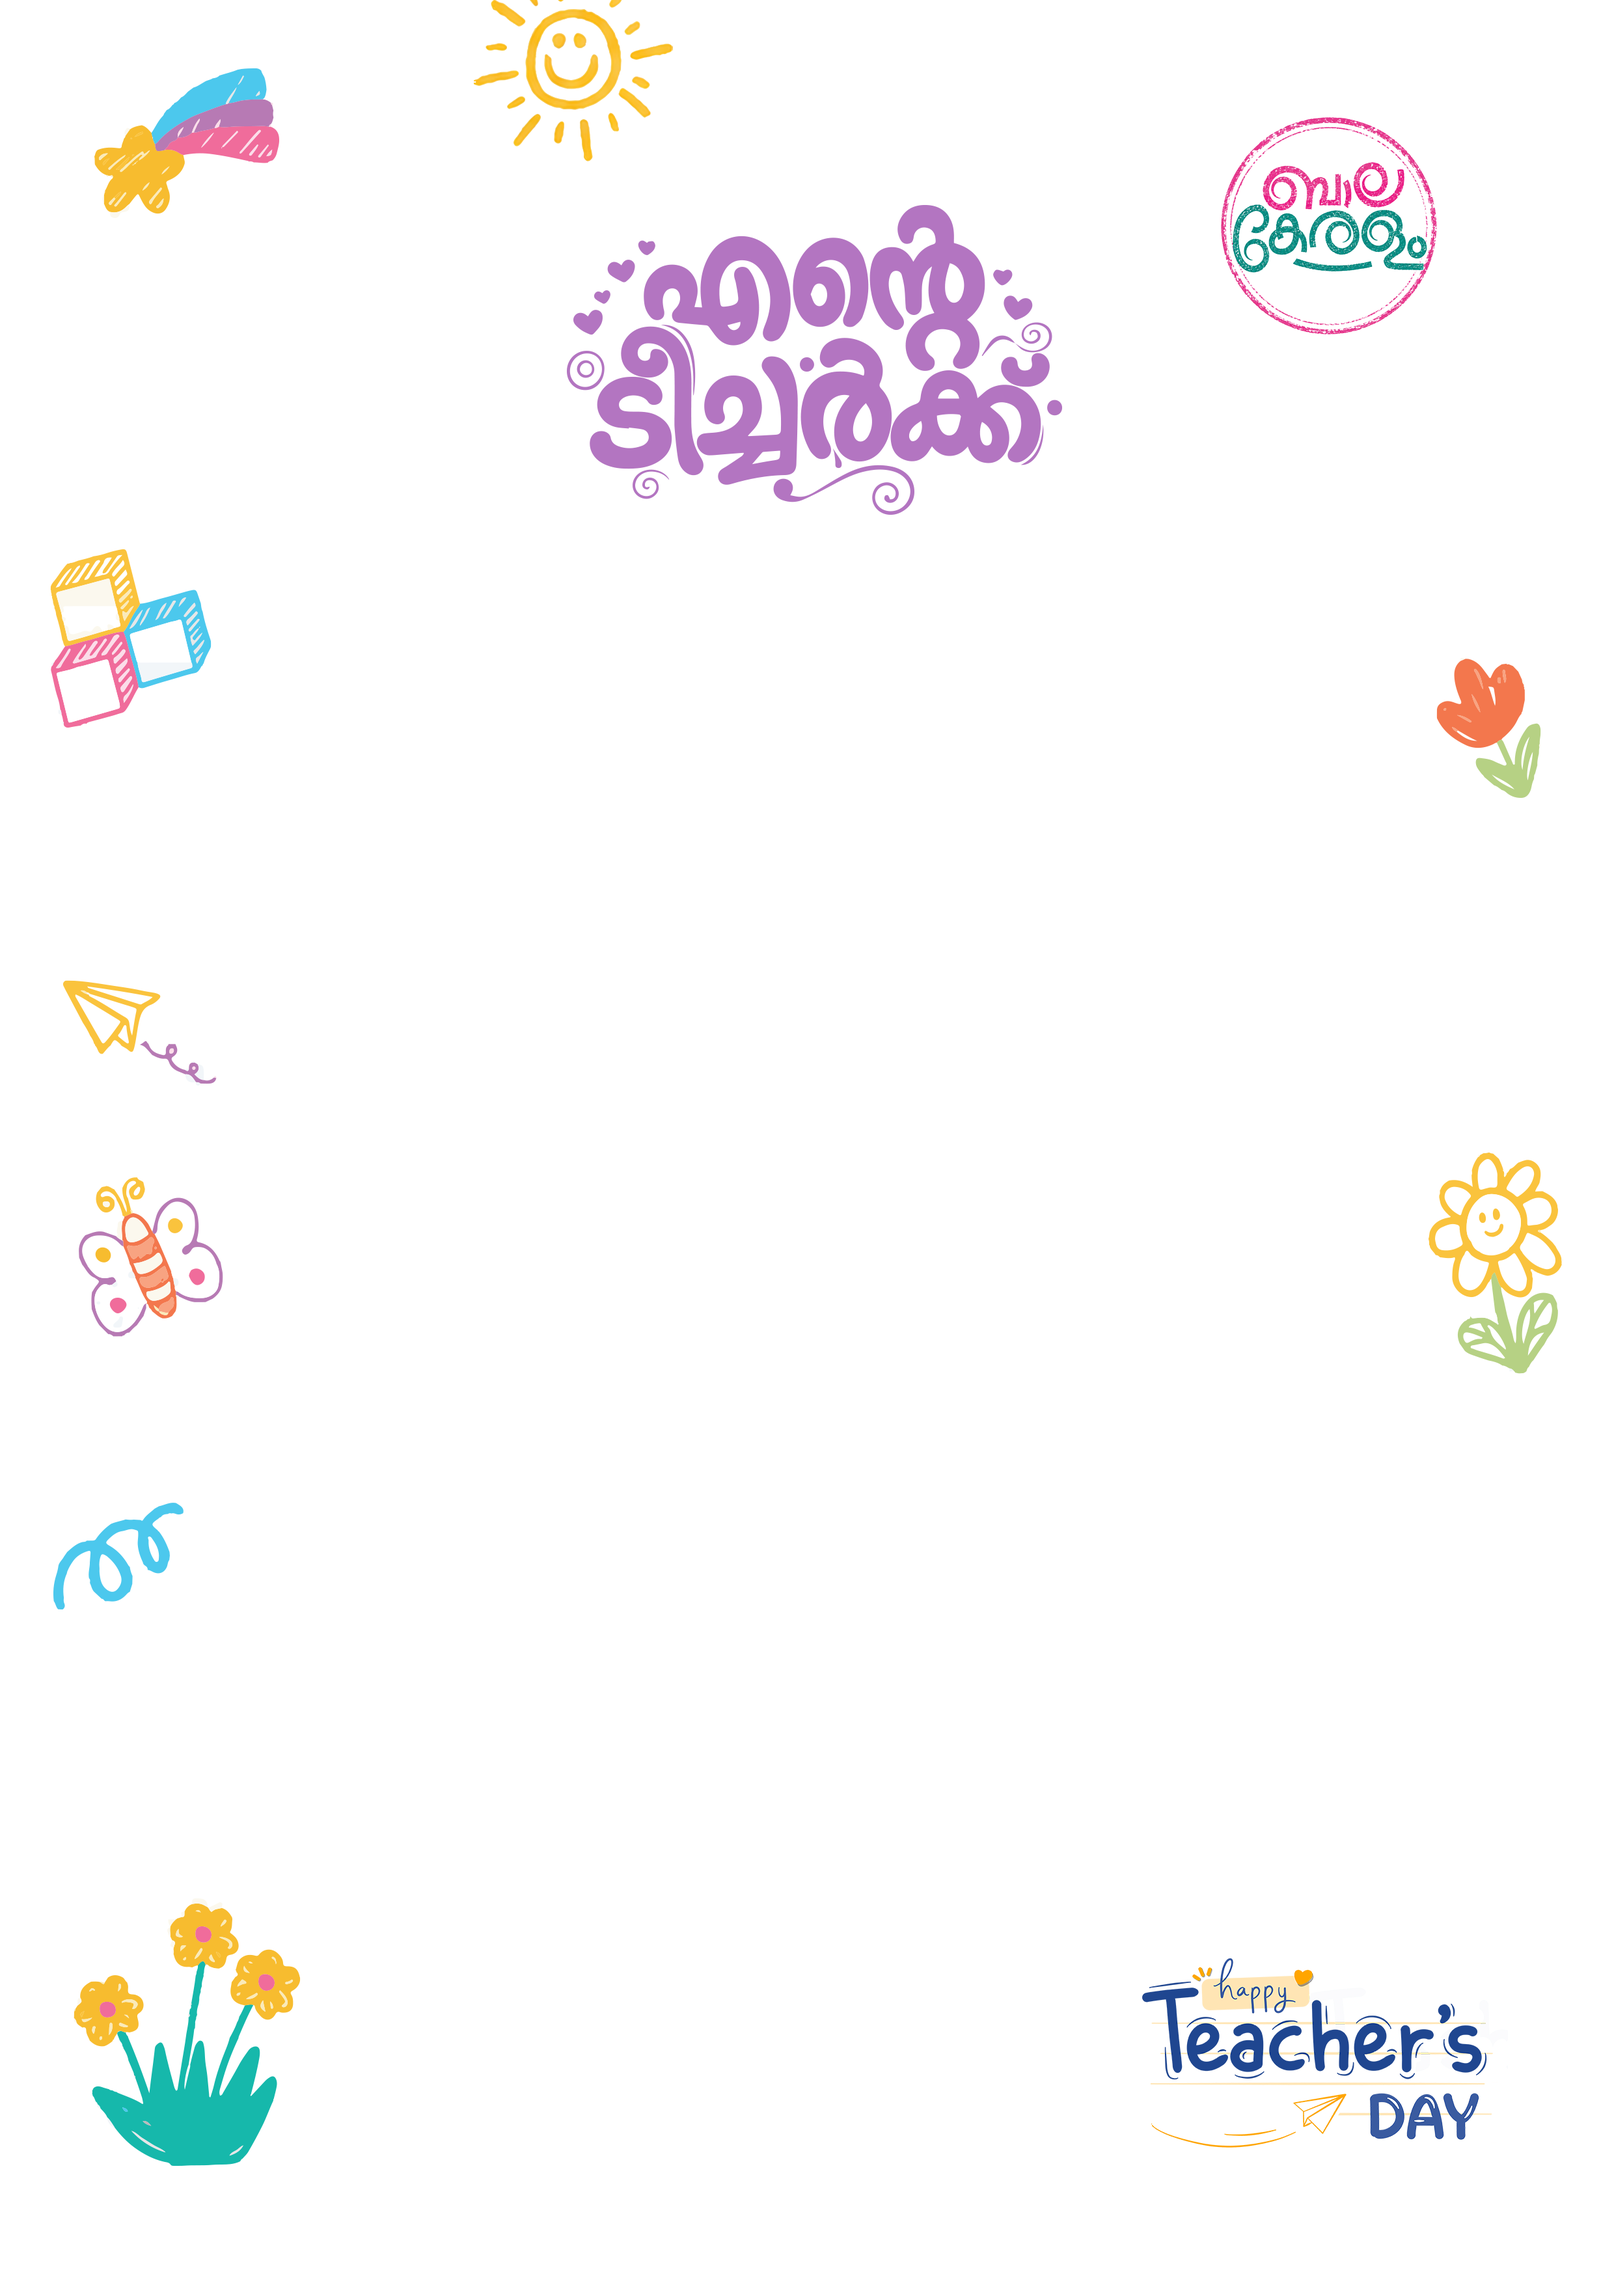
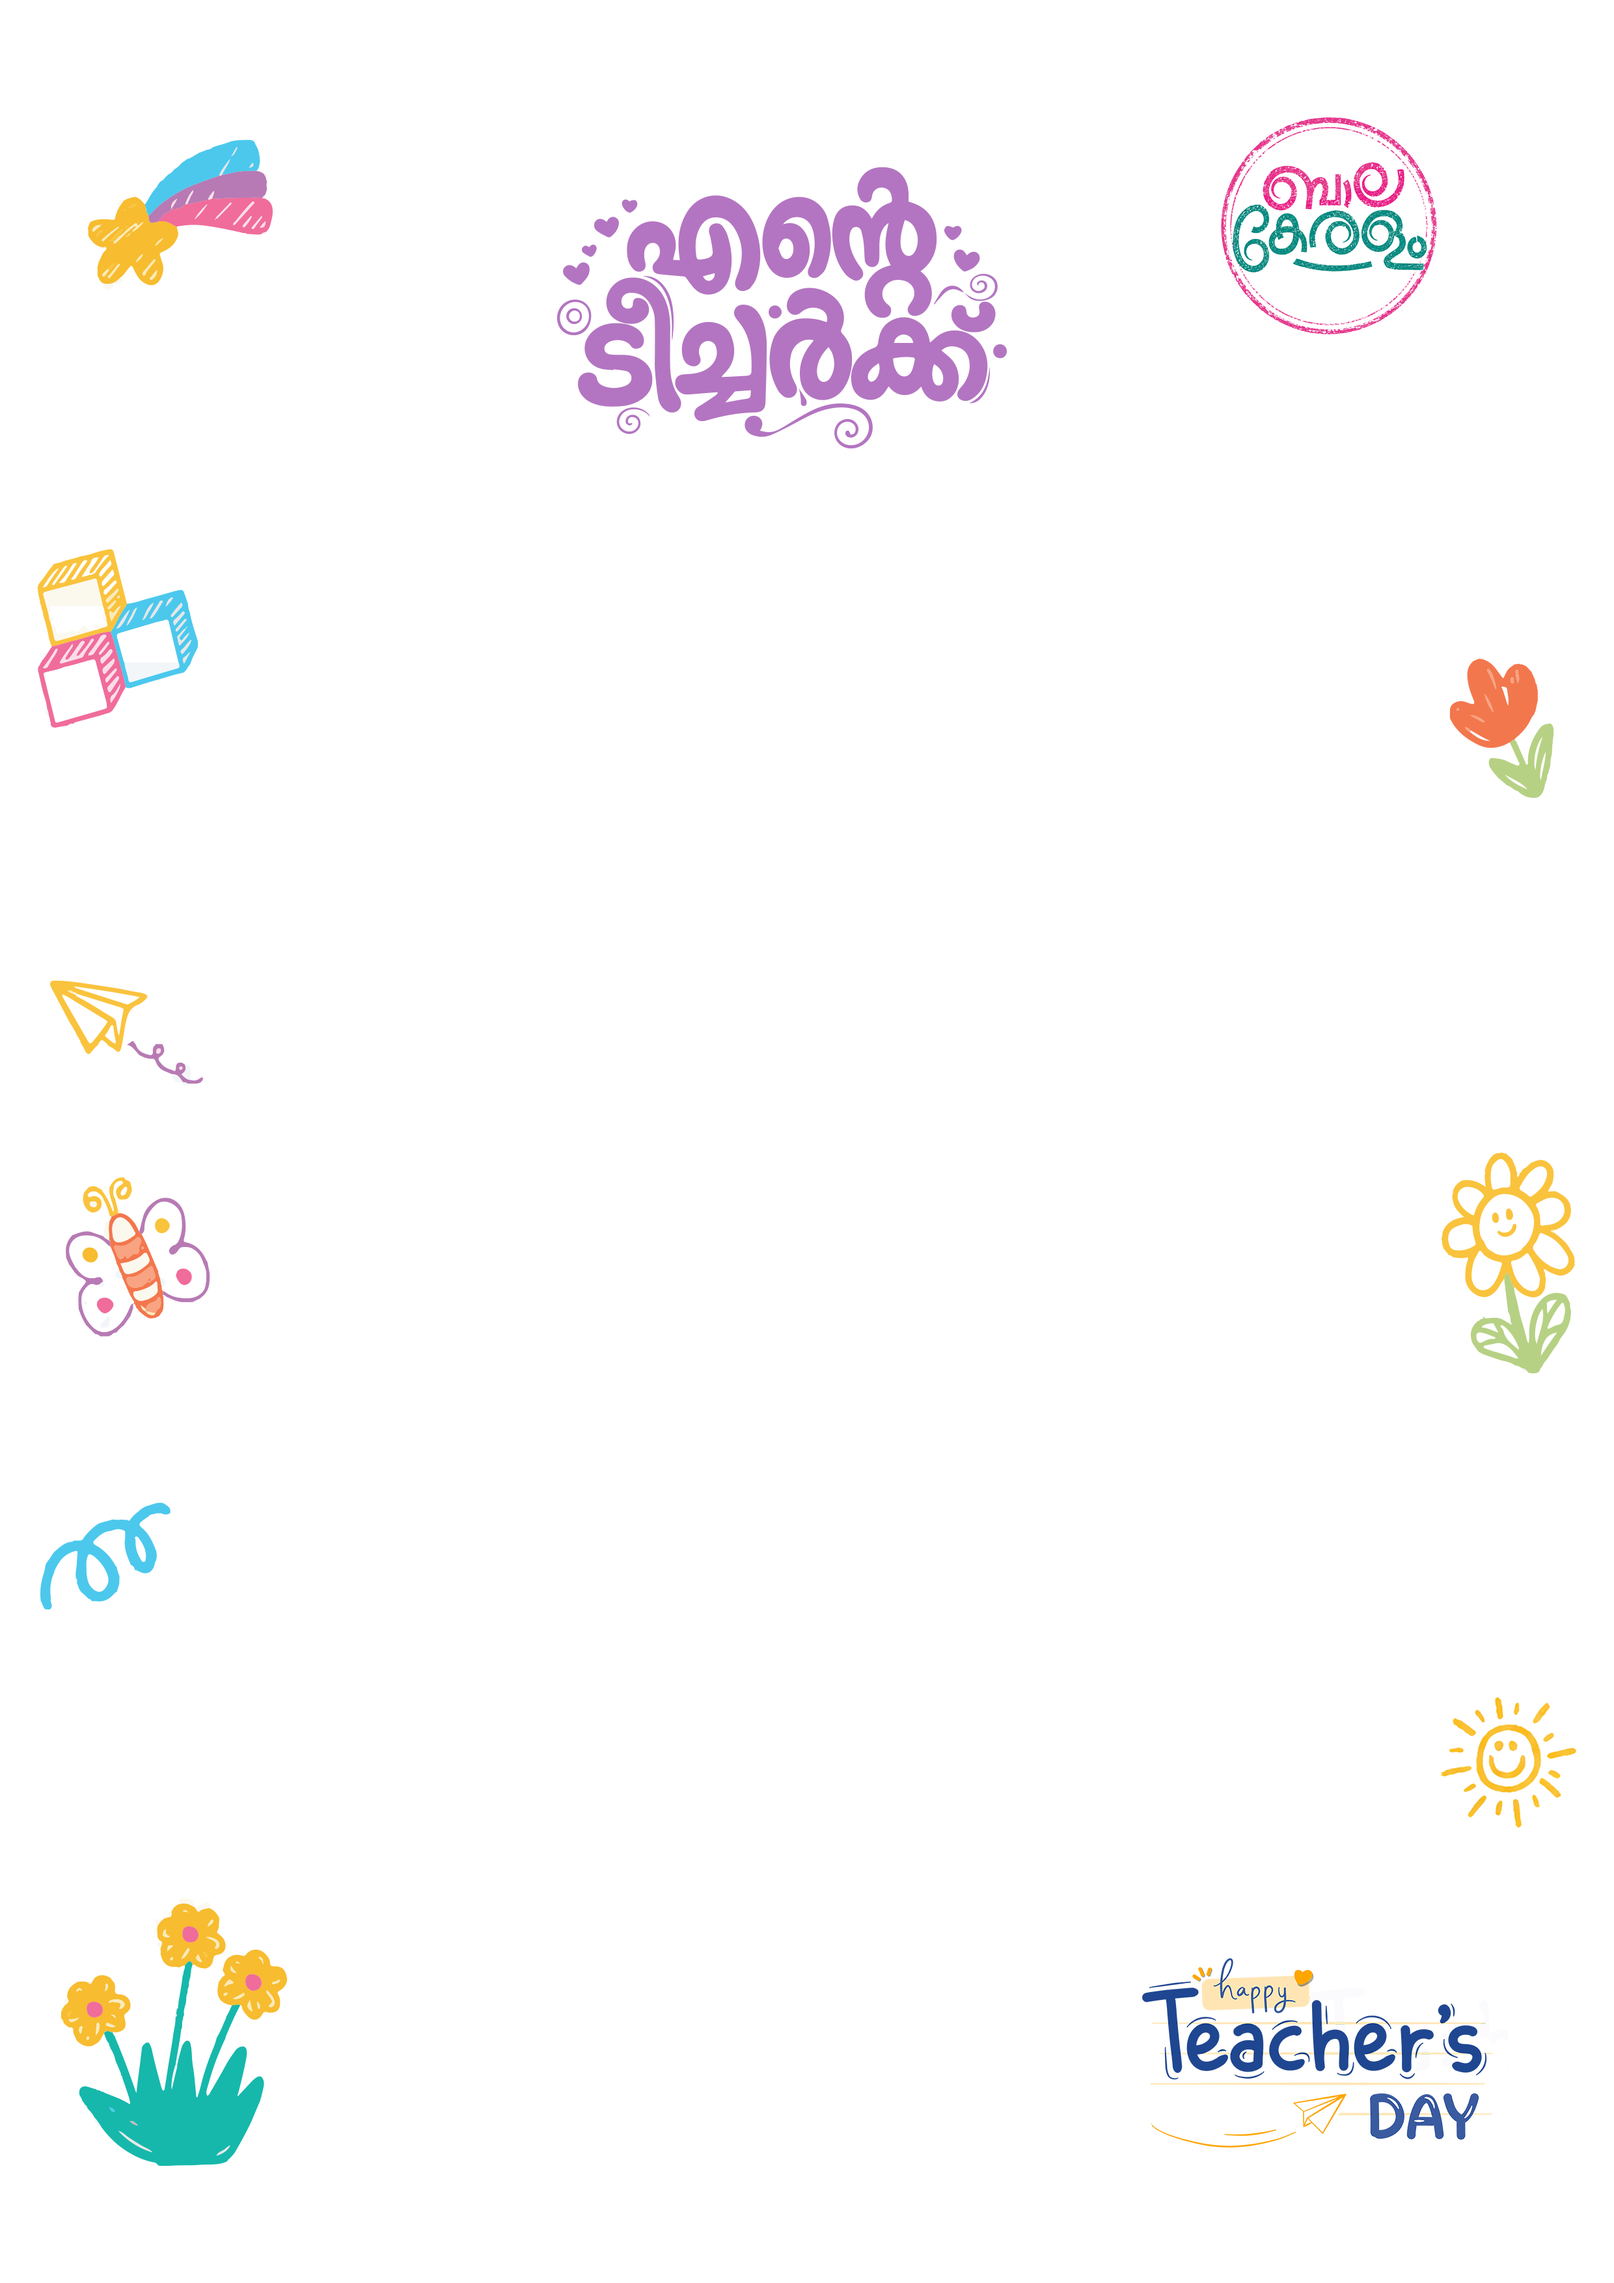
Update templates with new text and shorten to fit character limit

diff --git a/src/data/templates.js b/src/data/templates.js
@@ -1,24 +1,55 @@
 export const templates = [
   {
     id: 1,
-    title: 'The Little Things',
-    preview: 'എനിക്ക് ടീച്ചറോട് ഒരു കാര്യം പറയാനുണ്ട്...',
-    content: `ടീച്ചർക്ക്,
+    title: 'Template 1',
+    preview: 'ഞങ്ങൾക്ക് ഒരുപാട് കാര്യങ്ങൾ പഠിപ്പിക്കുന്നുണ്ട് ടീച്ചർ...',
+    content: `പ്രിയപ്പെട്ട ടീച്ചർക്ക്… ❤
 
-എനിക്ക് ടീച്ചറോട് ഒരു കാര്യം പറയാനുണ്ട്.
-ടീച്ചർ വഴക്ക് പറയുമ്പോൾ എനിക്ക് ദേഷ്യം വരും. പക്ഷേ പിറ്റേന്ന് ക്ലാസ്സിൽ വന്ന് ചിരിക്കുമ്പോൾ ആ ദേഷ്യം മാറും.
-ഞാൻ പഠിക്കാതെ വരുമ്പോൾ ടീച്ചർ വിഷമിക്കുന്നതും, നല്ല മാർക്ക് വാങ്ങുമ്പോൾ സന്തോഷിക്കുന്നതും എനിക്കറിയാം. അപ്പോൾ ഞാൻ ടീച്ചറുടെ സ്വന്തം കുട്ടിയാണെന്ന് തോന്നും.
-ടീച്ചർക്ക് തരാൻ എന്റെ കൈയിൽ പണമൊന്നുമില്ല. അതുകൊണ്ട് എന്റെ ഏറ്റവും വലിയ സ്നേഹം ഞാൻ തരുന്നു… ❤`
+ഞങ്ങൾക്ക് ഒരുപാട് കാര്യങ്ങൾ പഠിപ്പിക്കുന്നുണ്ട് ടീച്ചർ.
+പുസ്തകത്തിലെ പാഠങ്ങളും, പരീക്ഷയ്ക്കുള്ള ഉത്തരങ്ങളും…
+
+പക്ഷേ, അതിനേക്കാൾ വലിയ ചില കാര്യങ്ങൾ ടീച്ചർ ഞങ്ങളെ അറിയാതെ തന്നെ പഠിപ്പിക്കുന്നുണ്ട്.
+
+നല്ലൊരു മനുഷ്യനാകാൻ… മറ്റുള്ളവരെ സ്നേഹിക്കാൻ…
+തെറ്റ് പറ്റുമ്പോൾ അത് തിരുത്താൻ…
+വീണുപോകുമ്പോൾ വീണ്ടും എഴുന്നേൽക്കാൻ…
+
+ഞങ്ങൾ വളർന്ന് വലുതാകുമ്പോൾ പലരെയും മറന്നുപോയേക്കാം.
+പക്ഷേ, ഞങ്ങളുടെ ജീവിതത്തിൽ നല്ലൊരു മാറ്റത്തിന് കാരണമാകുന്ന ടീച്ചർമാരെ ഒരിക്കലും മറക്കാൻ കഴിയില്ല.
+
+ഞങ്ങളുടെ ജീവിതത്തിൽ ഒരു നല്ല വഴികാണിച്ചുതന്ന എല്ലാ അധ്യാപകർക്കും നന്ദി…`
   },
   {
     id: 2,
-    title: 'My Teacher, My Memory',
-    preview: 'ടീച്ചർ ക്ലാസ്സിൽ വരുമ്പോൾ എനിക്ക്...',
-    content: `പ്രിയപ്പെട്ട ടീച്ചർ,
+    title: 'Template 2',
+    preview: 'എനിക്ക് ടീച്ചറെ ഒരുപാട് ഇഷ്ടമാണ്...',
+    content: `പ്രിയപ്പെട്ട ടീച്ചർക്ക്, ❤
 
-ടീച്ചർ ക്ലാസ്സിൽ വരുമ്പോൾ എനിക്ക് വലിയ സന്തോഷമാണ്. ചിലപ്പോൾ വഴക്ക് പറയുമ്പോൾ എനിക്ക് സങ്കടം വരും. പക്ഷേ പിന്നീട് സ്നേഹത്തോടെ വിളിക്കുമ്പോൾ അത് മാറും.
-ഞാൻ വീട്ടിൽ ടീച്ചറുടെ കാര്യം പറയുമ്പോൾ അമ്മ പറയും, "ടീച്ചർക്ക് നിന്നെ ഒരുപാട് ഇഷ്ടമായതുകൊണ്ടാണ്" എന്ന്.
-പുസ്തകത്തിലെ കാര്യങ്ങൾ മാത്രമല്ല, നല്ല കുട്ടികളാകാനും ടീച്ചർ ഞങ്ങളെ പഠിപ്പിക്കുന്നു.
-വലുതായാലും ഞങ്ങൾ ടീച്ചറെ മറക്കില്ല. എവിടെ വെച്ച് കണ്ടാലും ഓടിവന്ന് സംസാരിക്കും. ടീച്ചർ എന്നും സന്തോഷമായിരിക്കണം.`
+എനിക്ക് ടീച്ചറെ ഒരുപാട് ഇഷ്ടമാണ്.
+
+പുസ്തകത്തിലെ പാഠങ്ങൾ മാത്രമല്ല, ജീവിതത്തിൽ എങ്ങനെ നല്ലൊരു കുട്ടിയാകണം എന്ന് ഞാൻ പഠിച്ചത് ടീച്ചറിൽ നിന്നാണ്.
+
+ഞാൻ തെറ്റ് ചെയ്യുമ്പോൾ തിരുത്തിത്തരും. വിഷമിക്കുമ്പോൾ ആശ്വസിപ്പിക്കും. ചെറിയൊരു നല്ല കാര്യം ചെയ്യുമ്പോൾ പോലും അഭിനന്ദിക്കും.
+
+നാളെ ഞാൻ വലുതാകുമ്പോൾ, എന്റെ ജീവിതത്തിലെ മാറ്റങ്ങൾക്ക് പിന്നിൽ ടീച്ചറുടെ വാക്കുകൾ ഉണ്ടാകും.
+
+എന്റെ മനസ്സിൽ എന്നും ഓർമ്മയാകുന്ന ഒരു ടീച്ചർ ഉണ്ടാകും — അത് എന്റെ പ്രിയപ്പെട്ട ടീച്ചറായിരിക്കും.
+
+എന്നെ മനസ്സിലാക്കിയതിനും സ്നേഹിച്ചതിനും ഒരുപാട് നന്ദി. ❤`
+  },
+  {
+    id: 3,
+    title: 'Template 3',
+    preview: 'അധ്യാപക ദിനം എന്ന് കേൾക്കുമ്പോൾ തന്നെ...',
+    content: `എന്റെ ടീച്ചർക്ക്,
+
+ടീച്ചർക്ക് സുഖമാണെന്ന് കരുതുന്നു.
+അധ്യാപക ദിനം എന്ന് കേൾക്കുമ്പോൾ തന്നെ ആദ്യം ഓർമ്മ വരുന്നത് ടീച്ചറുടെ മുഖമാണ്.
+
+ടീച്ചറെ ചിലപ്പോൾ എനിക്ക് അമ്മയെ പോലെ തോന്നാറുണ്ട്. ടീച്ചർ പറയുന്ന കഥകളും പാട്ടുകളുമൊക്കെ എനിക്ക് ഒരുപാട് ഇഷ്ടമാണ്. ഇടയ്ക്ക് ടീച്ചർ കണ്ണുരുട്ടുമ്പോൾ പേടിക്കാറുണ്ടെങ്കിലും, ടീച്ചർ ഒന്ന് ചിരിച്ചാൽ അതൊക്കെ ഞാൻ മറക്കും. 
+
+ടീച്ചർ മിഠായി തരുമ്പോൾ എനിക്ക് ഒരുപാട് സന്തോഷം തോന്നാറുണ്ട്. ടീച്ചർ എന്നെ പഠിപ്പിച്ചതും സ്നേഹിച്ചതുമൊക്കെ ഞാൻ എന്നും ഓർക്കും.
+
+ഈ കത്ത് എന്റെ പ്രിയപ്പെട്ട ടീച്ചർക്കുള്ള ഒരു ചെറിയ സ്നേഹസമ്മാനമായി നൽകുന്നു. ❤`
   }
 ]
